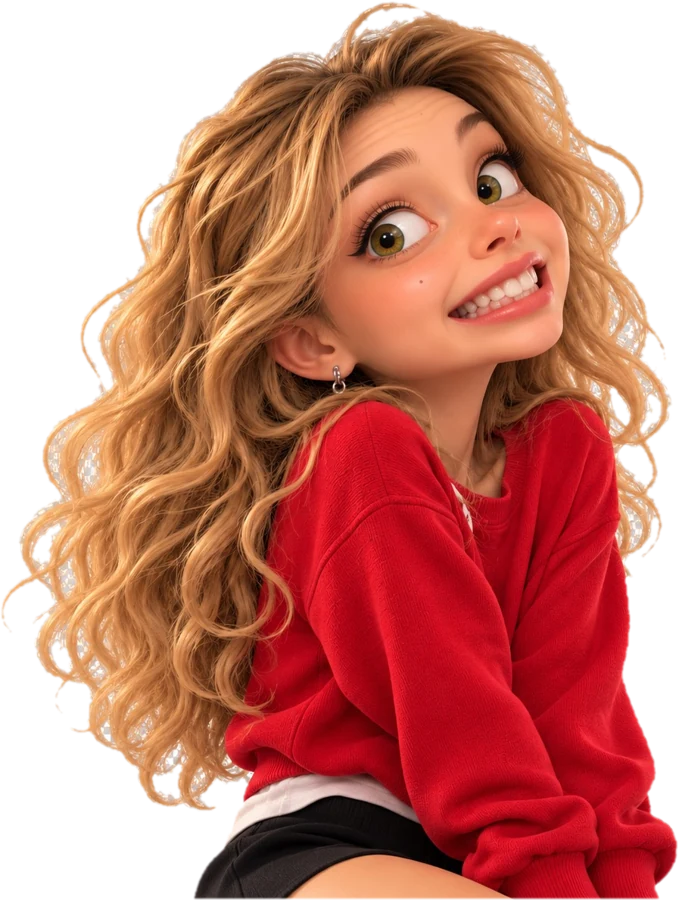
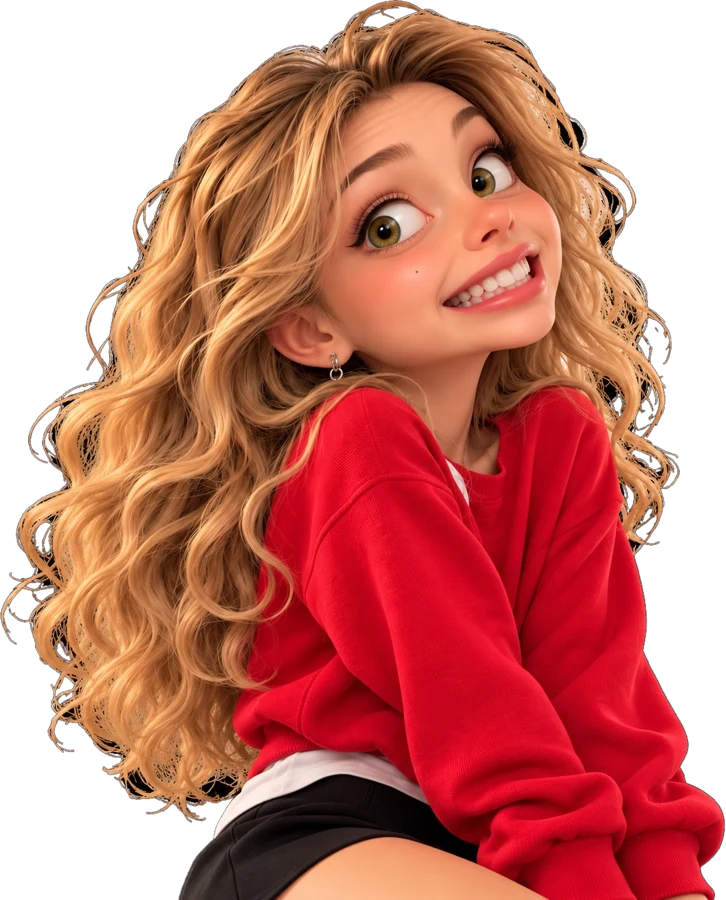
Replace hero portrait with new reference render
Claude-Session: https://claude.ai/code/session_013LekcVFj2cZF44YoogHgem

diff --git a/src/sections/HeroStage.tsx b/src/sections/HeroStage.tsx
@@ -68,8 +68,8 @@ export default function HeroStage({ stageRef, progress, cinematic }: Props) {
                 <img
                   src={`${import.meta.env.BASE_URL}anastasiia-doll.webp`}
                   alt="Stylized 3D portrait of Anastasiia Trapeznikova"
-                  width={897}
-                  height={1189}
+                  width={726}
+                  height={900}
                   className="h-auto w-full"
                 />
               </Magnet>

diff --git a/src/scene/Workstation3D.tsx b/src/scene/Workstation3D.tsx
@@ -75,7 +75,7 @@ function Character() {
     if (ref.current) ref.current.position.y = Math.sin(clock.elapsedTime * 1.2) * 0.02;
   });
   const h = 2.0;
-  const w = h * (897 / 1189);
+  const w = h * (726 / 900);
   return (
     <group position={[-1.45, 1.45, 0.85]}>
       <Billboard follow lockX lockZ>
